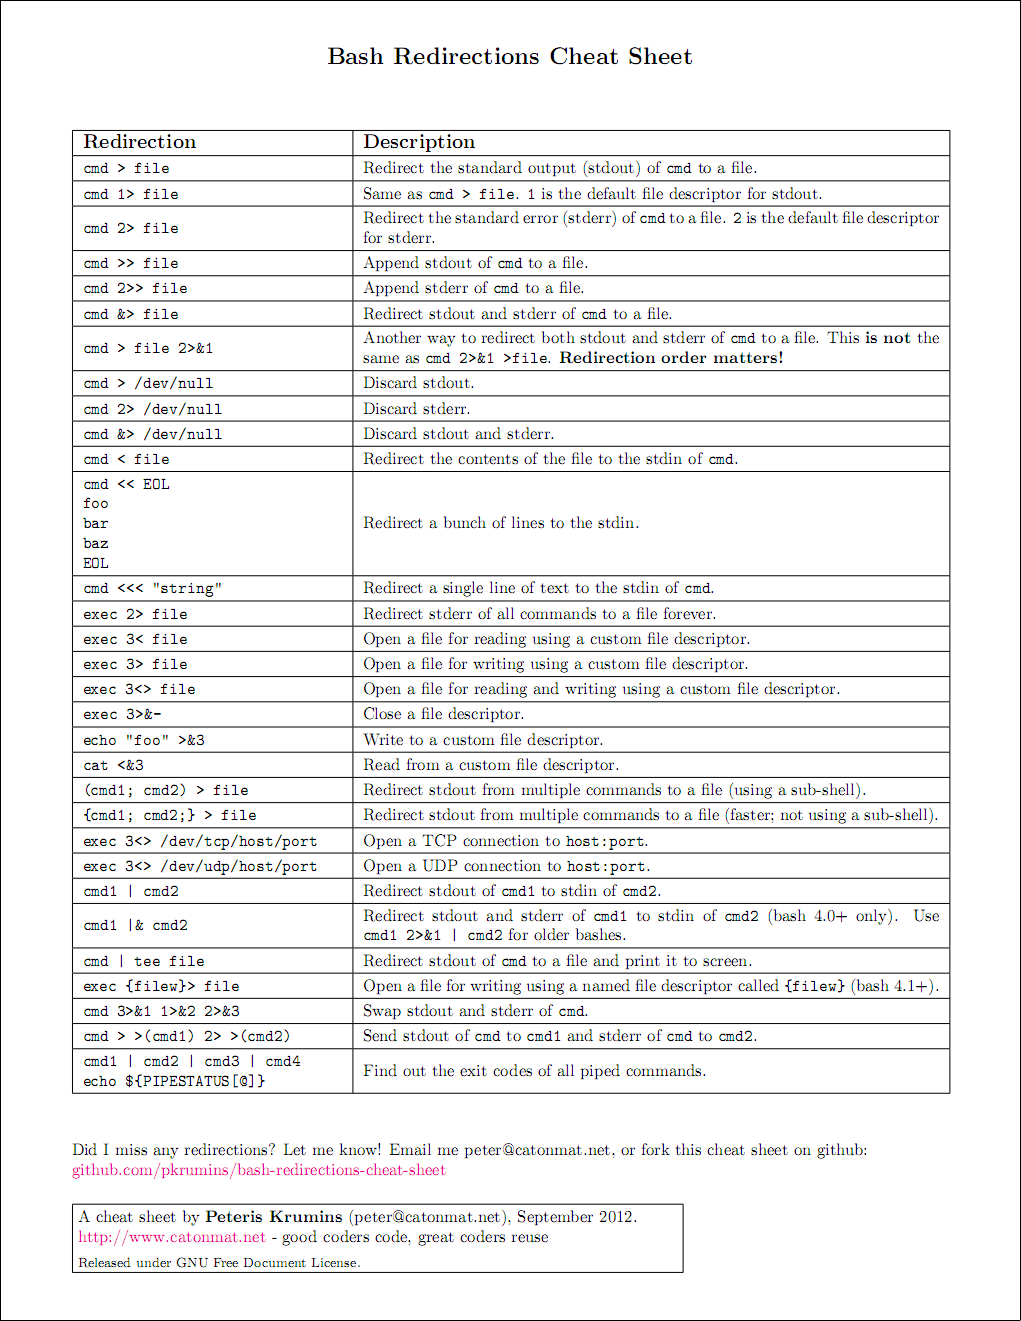
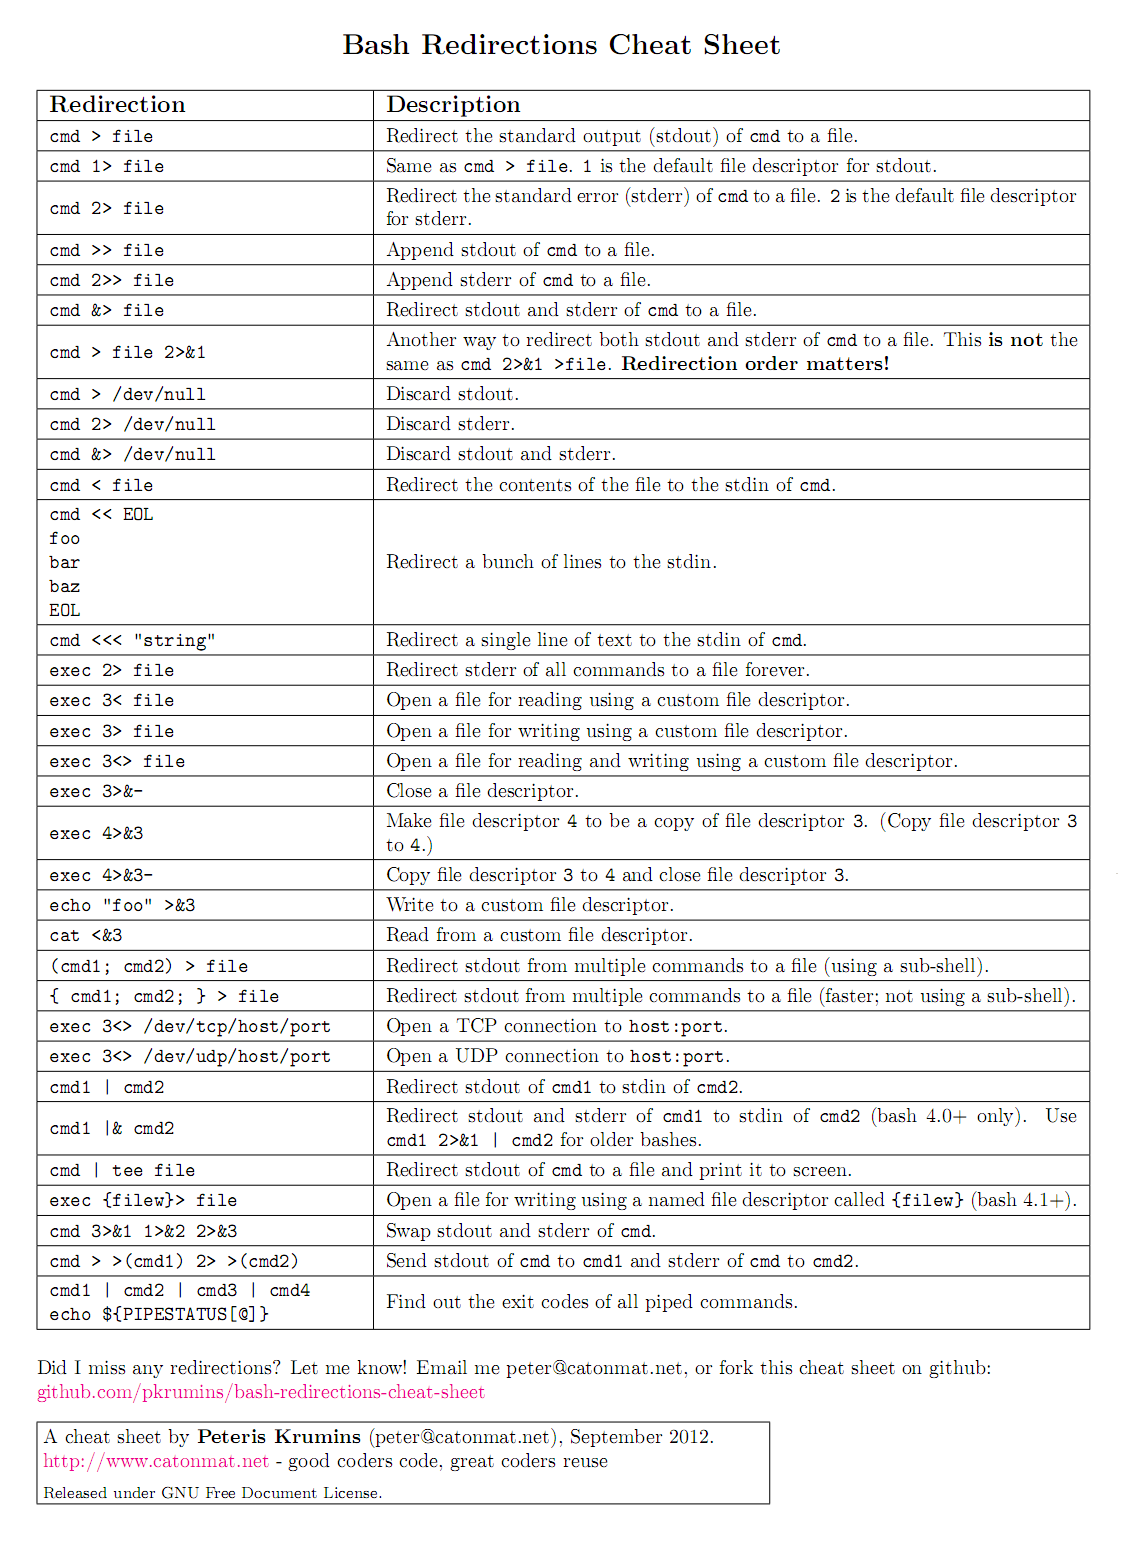
added copy-file-descriptors and move-file-descriptors examples

Changed region(s): [[0.0, 0.0, 1.0, 1.0], [0.668, 0.9311, 0.6983, 0.9621]]

diff --git a/bash-redirections-cheat-sheet.tex b/bash-redirections-cheat-sheet.tex
@@ -35,7 +35,7 @@
 \Large \textbf{Bash Redirections Cheat Sheet}
 \end{center}
 
-\vspace{0.4in}
+\vspace{0.1in}
 
 \renewcommand{\arraystretch}{1.2}
 \begin{tabular}{|m{5.5cm}|m{12.2cm}|}
@@ -82,13 +82,17 @@
 \hline
 \verb|exec 3>&-| & Close a file descriptor. \\
 \hline
+\verb|exec 4>&3| & Make file descriptor \verb|4| to be a copy of file descriptor \verb|3|. (Copy file descriptor \verb|3| to \verb|4|.) \\
+\hline
+\verb|exec 4>&3-| & Copy file descriptor \verb|3| to \verb|4| and close file descriptor \verb|3|. \\
+\hline
 \verb|echo "foo" >&3| & Write to a custom file descriptor. \\
 \hline
 \verb|cat <&3| & Read from a custom file descriptor. \\
 \hline
 \verb|(cmd1; cmd2) > file| & Redirect stdout from multiple commands to a file (using a sub-shell). \\
 \hline
-\verb|{cmd1; cmd2;} > file| & Redirect stdout from multiple commands to a file (faster; not using a sub-shell). \\
+\verb|{ cmd1; cmd2; } > file| & Redirect stdout from multiple commands to a file (faster; not using a sub-shell). \\
 \hline
 \verb|exec 3<> /dev/tcp/host/port| & Open a TCP connection to \verb|host:port|. \\
 \hline
@@ -111,7 +115,7 @@
 \hline
 \end{tabular}
 
-\vspace{0.4in}
+\vspace{0.2in}
 
 Did I miss any redirections? Let me know! Email me peter@catonmat.net, or fork this cheat sheet on github: \par \href{http://github.com/pkrumins/bash-redirections-cheat-sheet}{github.com/pkrumins/bash-redirections-cheat-sheet}
 
